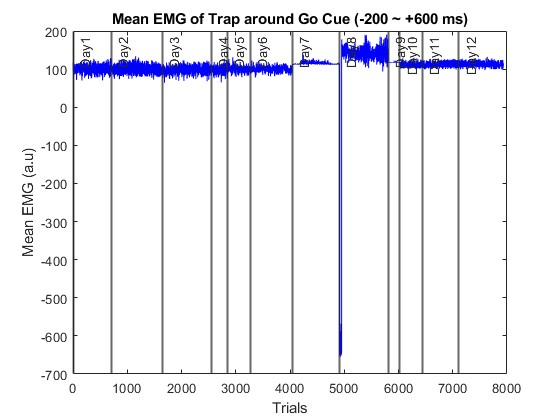
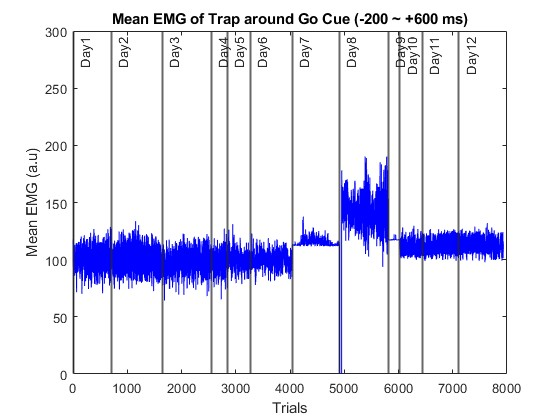
20220826 change normalized visualization picture of trap

diff --git a/src/normalizeByDay.m b/src/normalizeByDay.m
@@ -55,6 +55,8 @@ titles = {'Day1', 'Day2', 'Day3', 'Day4', 'Day5', 'Day6', 'Day7', 'Day8', 'Day9'
 means = zeros(length(files), emg_channel);
 stds = zeros(length(files), emg_channel);
 normalizedParams = zeros(2, emg_channel, length(files));
+tenDmetadataAcrossDays = zeros(10, emg_channel, length(files));
+
 
 %
 %
@@ -112,57 +114,15 @@ for t=(1:length(files)) %(1:length(files)
         covariance = cov(Y, X);
         alpha = covariance(1,2) / var(X);
         beta = mean(Y) - alpha * mean(X);
-        Ynorm = alpha*Y + beta;
         normalizedParams(:, channel, t) = [alpha beta];
+        tenDmetadataAcrossDays(:, channel, t) = alpha*X + beta;
     end
 
     % normalize EMG data
 %     means(t, :) = mean(meanEMGEachTrial, 2);
 %     stds(t, :) = std(meanEMGEachTrial, 0, 2);
-
     normalizedEMG = normalizedParams(1, :, t).' .* meanEMGEachTrial + normalizedParams(2, :, t).' .* ones(size(meanEMGEachTrial));
-%     EMGAcrossDays = [EMGAcrossDays normalizedEMG];
-    EMGAcrossDays = [EMGAcrossDays meanEMGEachTrial];
+    EMGAcrossDays = [EMGAcrossDays normalizedEMG];
     normalizedBaseline = alpha * baseline + beta;
-%     baselines = [baselines normalizedBaseline];
-    baselines = [baselines baseline];
-end
-
-% plot(Y)
-% title('raw '+string(file.muscleLabel(channel)));
-% legend(titles);
-% xticklabels({'0', '45', '90', '135', '180', '225', '270', '325', 'hold', 'mean'});
-
-
-% for channel=(5:5)
-%     figure
-%     Y = reshape(tenDmetadataAcrossDays(:, channel, :), 10, []);
-%     plot(Y)
-%     title(file.muscleLabel(channel));
-%     legend(titles)
-% end
-
-
-
-% x=1:12;
-% for c=(1:1)
-%     figure
-%     scatter(means(:, c), stds(:, c));
-%     title('Mean and std of ' + string(file.muscleLabel(c)) + ' at each day');
-%     xlabel('Mean')
-%     ylabel('Standard')
-% end
-
- 
-for c=(1:5) % !!!!!!!!!
-    figure
-    plotMeanEMG = plot(EMGAcrossDays(c, :), 'b');
-    hold on;
-    plotXline = xline(endofTrialByDays(1:length(endofTrialByDays)-1), '-', titles, 'LineWidth', 1.5);
-    hold on;
-    plotyline = plot(baselines(c, :), 'r');
-    hold off;
-    title('Mean EMG of ' + string(file.muscleLabel(c)) + ' around Go Cue (-200 ~ +600 ms)');
-    xlabel('Trials');
-    ylabel('Mean EMG (a.u)');
+    baselines = [baselines normalizedBaseline];
 end

diff --git a/src/tmpPlot.m b/src/tmpPlot.m
@@ -1,0 +1,37 @@
+
+% plot(Y)
+% title('raw '+string(file.muscleLabel(channel)));
+% legend(titles);
+% xticklabels({'0', '45', '90', '135', '180', '225', '270', '325', 'hold', 'mean'});
+
+% 
+% for channel=(3:3)
+%     figure
+%     Y = reshape(tenDmetadataAcrossDays(:, channel, 1:6), 10, []);
+%     plot(Y)
+%     title(file.muscleLabel(channel));
+%     legend(titles)
+% end
+% 
+
+% x=1:12;
+% for c=(1:1)
+%     figure
+%     scatter(means(:, c), stds(:, c));
+%     title('Mean and std of ' + string(file.muscleLabel(c)) + ' at each day');
+%     xlabel('Mean')
+%     ylabel('Standard')
+% end
+
+%  
+% for c=(3:3) % !!!!!!!!!
+%     figure
+%     plotMeanEMG = plot(EMGAcrossDays(c, :), 'b');
+%     hold on;
+%     plotXline = xline(endofTrialByDays(1:length(endofTrialByDays)-1), '-', titles, 'LineWidth', 1.5);
+%     hold off;
+%     title('Mean EMG of ' + string(file.muscleLabel(c)) + ' around Go Cue (-200 ~ +600 ms)');
+%     xlabel('Trials');
+%     ylabel('Mean EMG (a.u)');
+%     ylim([0 300]);
+% end
